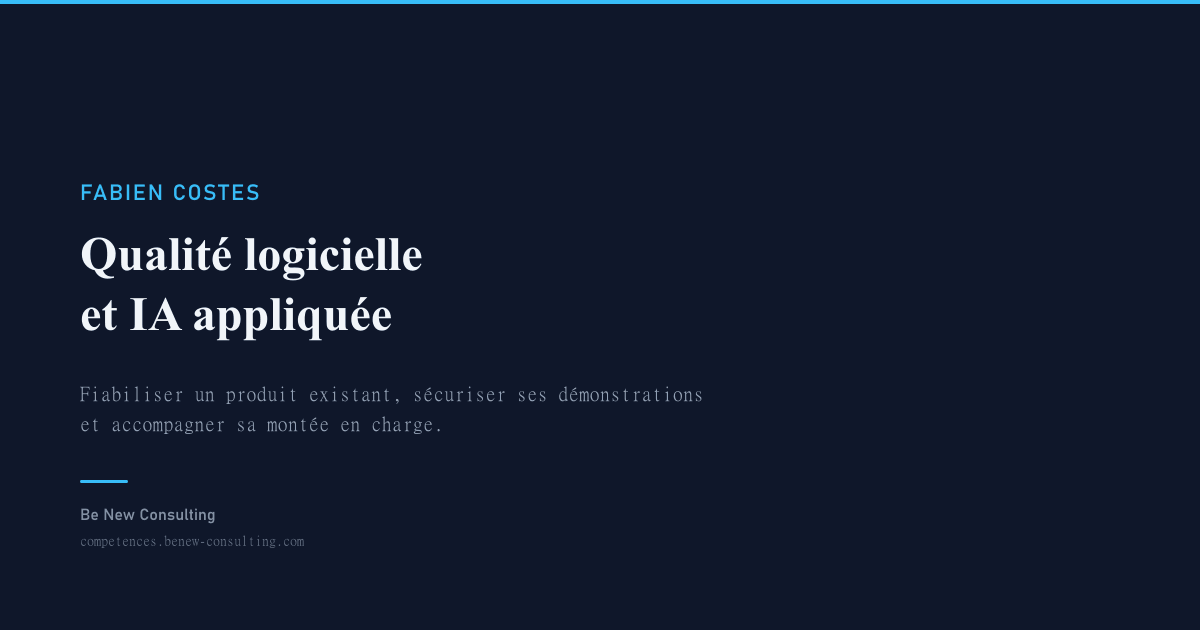
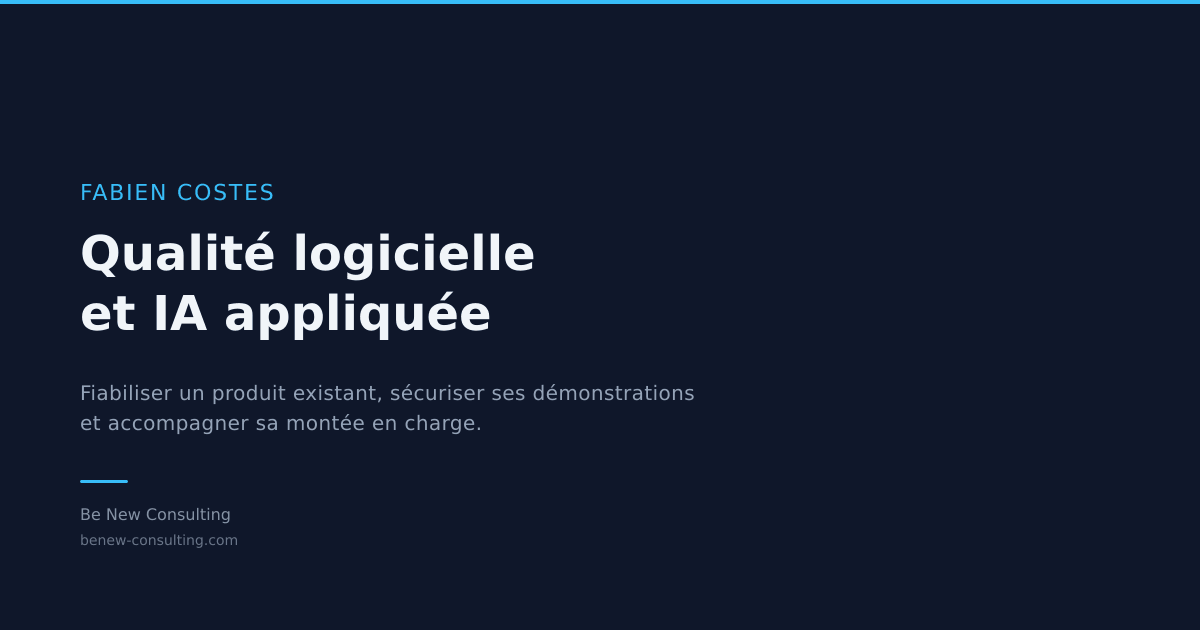
chore: bascule le domaine canonique vers benew-consulting.com
La bascule (suppression de WordPress, my_webapp déplacé sur la racine)
est faite côté serveur, mais le site déclarait encore l'ancien
sous-domaine comme canonique : la constante base de prerender.js n'avait
jamais été mise à jour, exactement le piège que sa documentation
signalait. Corrige aussi index.html (canonical, og:url, og:image de la
page d'accueil, non couverts par prerender.js) et le script de génération
de l'image Open Graph, qui incrustait l'ancien domaine dans le visuel
partagé sur les réseaux sociaux — image régénérée.

Claude-Session: https://claude.ai/code/session_01M8UFufQtiWTxrSRH27RLEY

diff --git a/index.html b/index.html
@@ -5,13 +5,13 @@
     <meta name="viewport" content="width=device-width, initial-scale=1.0" />
     <title>Fabien Costes — Qualité logicielle et IA appliquée | Be New Consulting</title>
     <meta name="description" content="Consultant indépendant en qualité logicielle et IA appliquée. Je fiabilise les produits existants, sécurise les démonstrations et accélère le développement sans ralentir les équipes." />
-    <link rel="canonical" href="https://competences.benew-consulting.com/" />
+    <link rel="canonical" href="https://benew-consulting.com/" />
     <meta property="og:title" content="Fabien Costes — Qualité logicielle et IA appliquée" />
     <meta property="og:description" content="Fiabiliser un produit existant, sécuriser les démonstrations et accompagner sa montée en charge." />
     <meta property="og:type" content="website" />
-    <meta property="og:url" content="https://competences.benew-consulting.com/" />
+    <meta property="og:url" content="https://benew-consulting.com/" />
     <meta property="og:locale" content="fr_FR" />
-    <meta property="og:image" content="https://competences.benew-consulting.com/og-image.png" />
+    <meta property="og:image" content="https://benew-consulting.com/og-image.png" />
     <meta property="og:image:width" content="1200" />
     <meta property="og:image:height" content="630" />
     <meta name="twitter:card" content="summary_large_image" />

diff --git a/scripts/generate-og-image.js b/scripts/generate-og-image.js
@@ -25,7 +25,7 @@ const svg = `<svg width="1200" height="630" xmlns="http://www.w3.org/2000/svg">
   <text x="80" y="520" font-family="Inter, system-ui, sans-serif" font-size="16"
         font-weight="500" fill="#8293a7">Be New Consulting</text>
   <text x="80" y="545" font-family="Inter, system-ui, sans-serif" font-size="14"
-        fill="#64748b">competences.benew-consulting.com</text>
+        fill="#64748b">benew-consulting.com</text>
 </svg>`
 
 const output = resolve(__dirname, '..', 'public', 'og-image.png')

diff --git a/scripts/prerender.js b/scripts/prerender.js
@@ -5,7 +5,7 @@ import { fileURLToPath } from 'url'
 const __dirname = dirname(fileURLToPath(import.meta.url))
 const dist = resolve(__dirname, '..', 'dist')
 
-const base = 'https://competences.benew-consulting.com'
+const base = 'https://benew-consulting.com'
 
 const pages = [
   {
